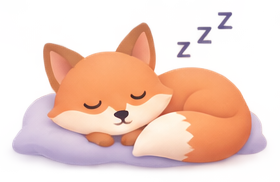
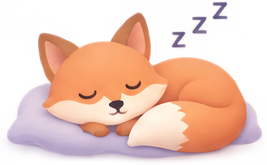
normalize fox sizing and motion

diff --git a/src/styles/default-theme.css b/src/styles/default-theme.css
@@ -239,6 +239,9 @@
 
   & .home-current {
     --orb-cycle: 5s;
+    --fox-width: 66%;
+    --fox-lift: -1.5px;
+    --fox-breath-scale: 1.012;
     --orb-warm: var(--orb-peach);
     --orb-pink: #db93ad;
     --orb-scale: 1.025;
@@ -246,7 +249,7 @@
     display: flex;
     flex-direction: column;
     align-items: center;
-    justify-content: center;
+    justify-content: flex-start;
     box-sizing: border-box;
     width: min(100%, clamp(205px, calc(100svh - 470px - env(safe-area-inset-top, 0px) - env(safe-area-inset-bottom, 0px)), 304px));
     aspect-ratio: 1;
@@ -269,6 +272,9 @@
   }
   & .home-current[data-sleeping="true"] {
     --orb-cycle: 7.5s;
+    --fox-width: 96%;
+    --fox-lift: -1px;
+    --fox-breath-scale: 1.006;
     --orb-warm: #cfb7d8;
     --orb-pink: #ddaebf;
     --orb-cool: #b59ed0;
@@ -315,17 +321,32 @@
     & .home-orb-ring { animation: home-ring-expand var(--orb-cycle) ease-in-out infinite; }
     & .home-ring-cool { animation: home-ring-fade var(--orb-cycle) ease-in-out infinite; animation-delay: calc(var(--orb-cycle) / -2); }
     & .home-ring-pulse { animation: home-ring-fade var(--orb-cycle) ease-in-out infinite; }
-    & .home-current[data-sleeping="false"] .home-current-animal {
+    & .home-orb-fox-motion {
       animation: home-fox-breathe var(--orb-cycle) ease-in-out infinite;
     }
   }
+  & .home-orb-fox-slot {
+    display: flex;
+    justify-content: center;
+    align-items: flex-end;
+    flex: none;
+    width: 36%;
+    height: 33%;
+  }
+  & .home-orb-fox-motion {
+    width: var(--fox-width);
+    height: 78%;
+    transform-origin: center bottom;
+  }
   & .home-current-animal {
-    width: 43%;
-    height: auto;
+    display: block;
+    width: 100%;
+    height: 100%;
+    object-fit: contain;
+    object-position: center bottom;
     pointer-events: none;
     user-select: none;
   }
-  & .home-current:has(.home-awake-duration) .home-current-animal { width: 25%; margin-top: 6px; }
   & .home-awake-label { font-size: .8125rem; color: var(--text-secondary); }
   & .home-awake-duration { font-size: 1.25rem; line-height: 1.1; font-variant-numeric: tabular-nums; }
   & .home-current h2 { margin-top: 4px; font-size: 1rem; font-weight: 550; }
@@ -481,5 +502,5 @@
 
 @keyframes home-fox-breathe {
   0%, 100% { transform: translateY(0) scale(1); }
-  50% { transform: translateY(-1px) scale(1.012); }
+  50% { transform: translateY(var(--fox-lift)) scale(var(--fox-breath-scale)); }
 }

diff --git a/src/pages/Home.tsx b/src/pages/Home.tsx
@@ -227,7 +227,11 @@ function HomeActivity() {
           <circle className="home-orb-now" cx="183" cy="148" r="3.4" />
         </svg>
         <RecentOrbMarkers now={now} sleep={completedSleepEnd} feed={lastFeed?.starttime} diaper={lastDiaper?.changed_at} />
-        <img className="home-current-animal" src={activeSleep ? sleepingFox : awakeFox} alt="" draggable={false} />
+        <div className="home-orb-fox-slot">
+          <div className="home-orb-fox-motion">
+            <img className="home-current-animal" src={activeSleep ? sleepingFox : awakeFox} alt="" draggable={false} />
+          </div>
+        </div>
       </>}
       {isDefault && !loading && !activeSleep && completedSleepEnd && <>
         <span className="home-awake-label">{t("home.awakeFor")}</span>
